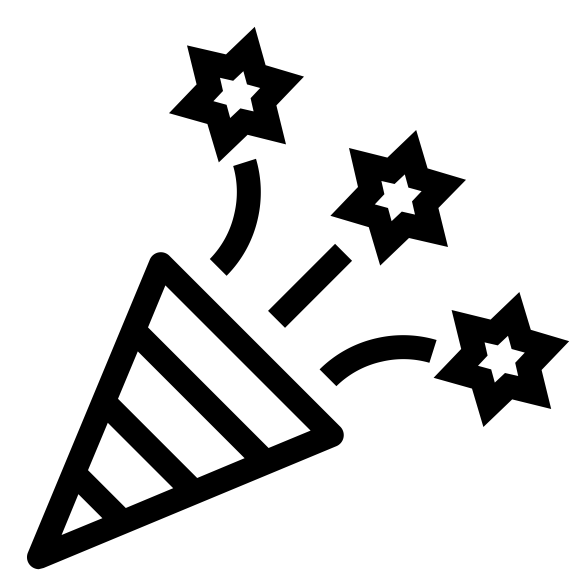
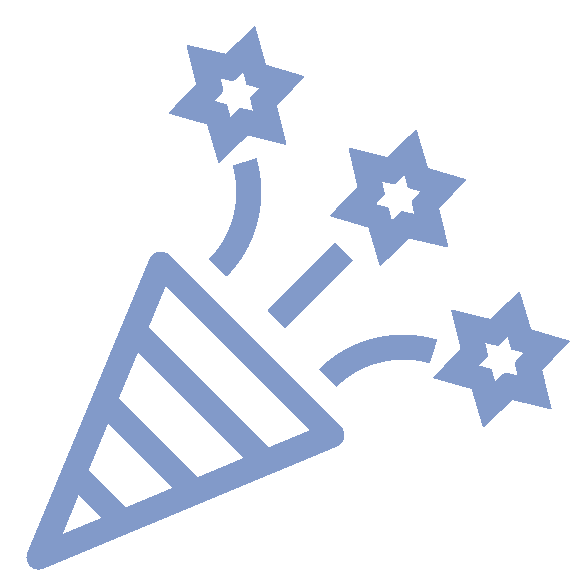
making schedule responsive

diff --git a/index.html b/index.html
@@ -115,9 +115,9 @@
     }
 
     .event {
-        margin: 20px 0px 30px 0px;
         padding: 30px 0px;
-        color: #4c4c4c;
+                color: hsla(220, 40%, 50%, 1);
+        width: 100%;
     }
 
     .event:hover {
@@ -126,7 +126,7 @@
 
 
     .minievent {
-        color: #4c4c4c;
+                color: hsla(220, 40%, 50%, 1);
         font-size: 12px;
         margin: 20px 0px;
     }
@@ -144,8 +144,8 @@
 
     .schedule .contents {
         border: 1px solid #829AC9;
-        width: 29%;
-        padding-top: 30px;
+        min-width: 600px;
+        padding-top: 15px;
     }
 
     .schedule .band {
@@ -160,10 +160,27 @@
         font-size: 14px;
     }
 
+    .schedule .big_event {
+        height: 25%;
+        display: flex;
+        align-items: center;
+        justify-content: center;
+
+    }
+
+    .schedule .mini_event {
+        height: 5%;
+        display: flex;
+        align-items: center;
+        justify-content: center;
+          margin: 10px 0px;
+            background-color: rgba(130, 154, 201, 0.19);
+    }
+
     .icon img {
         width: 5em;
         float: left;
-        margin-left: 7em;
+        margin-left: 4em;
     }
 
     .event .details {
@@ -171,12 +188,12 @@
     }
 
     .aboutus .contents {
-      background-color: white;
+        background-color: white;
         width: 100%;
     }
 
     .aboutus .contents .image {
-      background-image: url("cover.jpg");
+        background-image: url("cover.jpg");
         height: 100%;
         width: 50%;
         float: left;
@@ -231,7 +248,7 @@
                 <div class="band">
                     Saturday · January 19, 2019
                 </div>
-                <center>
+                <center class="big_event">
                     <div class="event">
                         <div class="icon">
                             <img class="wedding_icon" src="wedding2.png"></img>
@@ -243,12 +260,12 @@
                         </div>
                     </div>
                 </center>
-                <center>
+                <center class="mini_event">
                     <div class="minievent">
                         <div>Buses leave at 4:30pm from St. Paul's Church, San Francisco</div>
                     </div>
                 </center>
-                <center>
+                <center class="big_event">
                     <div class="event">
                         <div class="icon">
                             <img class="reception_icon" src="reception3.png"></img>
@@ -260,7 +277,7 @@
                         </div>
                     </div>
                 </center>
-                <center>
+                <center class="mini_event">
                     <div class="minievent">
                         <div>Buses to San Franscisco will run every half-hour from 9pm till 11pm</div>
                     </div>
@@ -268,7 +285,7 @@
                 <div class="band">
                     Sunday · January 20, 2019
                 </div>
-                <center>
+                <center class="big_event">
                     <div class="event">
                         <div class="icon">
                             <img class="wine_icon" src="wine2.png"></img>
@@ -287,7 +304,7 @@
     <div id="aboutus" class="page cover image3 aboutus">
         <div class="header">about us</div>
         <div class="container">
-          <!--
+            <!--
             <div class="profile left">
                 <center>
                     <img src="angelaying.png"></img>
@@ -303,10 +320,10 @@
             -->
 
             <div class="center contents">
-              <span class="image">
-              </span>
-              <div></div>
-</div>
+                <span class="image">
+                </span>
+                <div></div>
+            </div>
         </div>
     </div>
 
